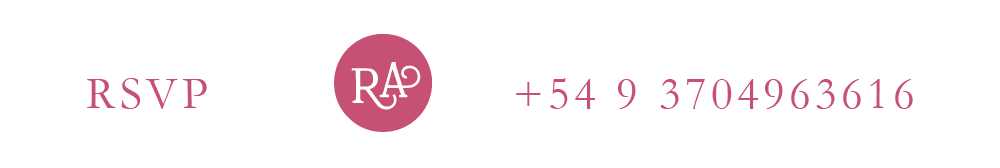
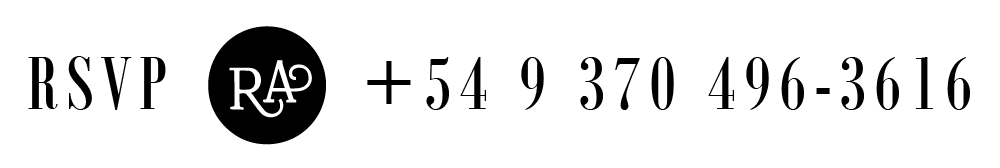
invitacion luz

Changed region(s): [[0.031, 0.1488, 0.992, 0.8631]]

diff --git a/invitacion-luz/index.html b/invitacion-luz/index.html
@@ -72,7 +72,7 @@
 
       <div class="dresscode">
         <p class="texto1">Dress Code</p>
-        <p class="texto2">Etiqueta SHINE AND BRIGHT IT ON<br>
+        <p class="texto2">Etiqueta <br>Shine, Shine, Shine!<br>
         <p class="textov2">(todos los colores excepto blanco)
         </p>
         <p class="textov2">Hacé click para inspirarte <br> y tener una idea más clara
@@ -113,7 +113,7 @@
         </a>
         <br><br><br><br><br><br><br><br>
 
-        <img class="insta_filtro" src="./img/selfie.gif">
+        <img class="insta_filtro" src="./img/insta.png">
         <p class="texto2"> #15LUZ </p>
         <a href="" target="_blank">
           <button type="button">Ver en Instagram</button>
@@ -137,7 +137,7 @@
         <p class="texto2">¡Me haría
           muy feliz que estés!</p>
         <p class="numero">Por favor, confirmá tu presencia</p>
-        <img class="numeroimg" src="./img/RSVP.png" alt="">
+        <img class="numeroimg" src="./img/rsvp.png" alt="">
 
         <div class="button-wrapper">
           <div class="confetti-container">

diff --git a/invitacion-luz/js/index.js b/invitacion-luz/js/index.js
@@ -93,12 +93,12 @@ function handleButtonClick() {
   confetti_button({
     particleCount: 200, 
     spread: 180,
-    colors: ["#c863a2"],
+    colors: ["#C4863B"],
     shapes: ["square"]
   });
 
   setTimeout(() => {
-    window.location.href = "https://wa.link/";
+    window.location.href = "https://wa.link/gxfkt3";
   }, 1000);
 }
 

diff --git a/invitacion-luz/styles.css b/invitacion-luz/styles.css
@@ -278,8 +278,8 @@
   }
   
   .numeroimg {
-    height: 50px;
-    width: 310px;
+    height: 30px;
+    width: 250px;
   }
 
   .confetti-container {
